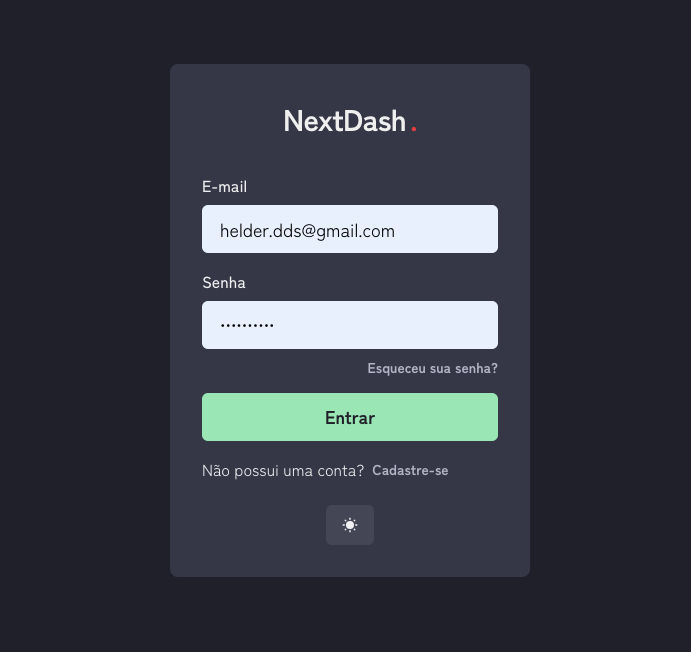
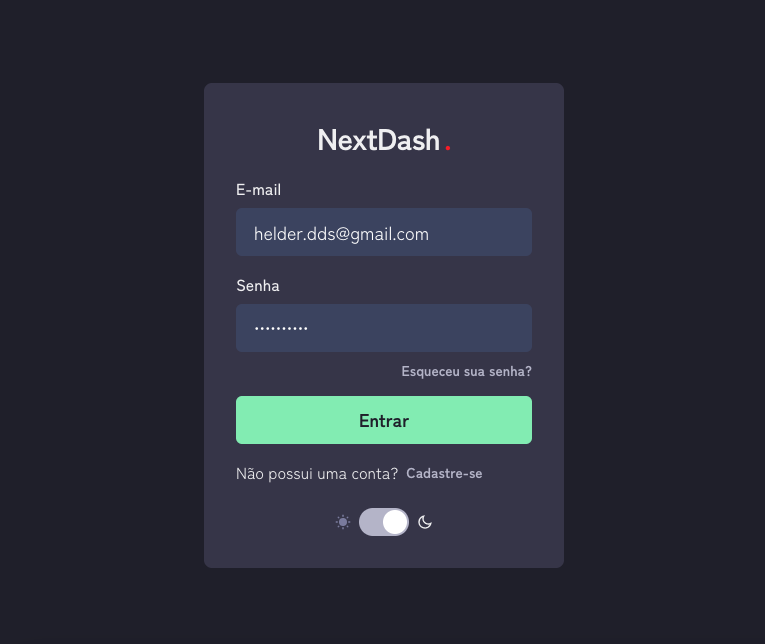
change screenshots

Changed region(s): [[0.2431, 0.0932, 0.7902, 0.9006], [0.4255, 0.7764, 0.5774, 0.8385]]

diff --git a/src/components/ui/molecules/ColorModeToggler/index.tsx b/src/components/ui/molecules/ColorModeToggler/index.tsx
@@ -1,5 +1,4 @@
-import { useColorMode, Icon, Switch, HStack, background } from '@chakra-ui/react'
-import { Button } from '@chakra-ui/button';
+import { useColorMode, Icon, Switch, HStack } from '@chakra-ui/react'
 import { RiSunFill, RiMoonLine } from "react-icons/ri";
 
 const ColorModeToggler = () => {

diff --git a/README.md b/README.md
@@ -3,6 +3,7 @@
 A template for a dashboard front-end fast starting.
 
 ![alt text](screenshots/dash-main.png)
+![alt text](screenshots/dash-main-2.png)
 
 ## Dependencies versions
 
